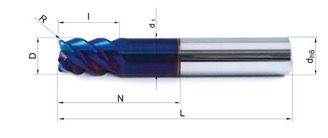
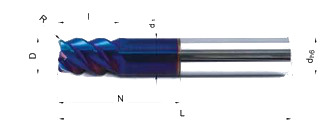
15012021screen kurzokay

diff --git a/lib/widgets/index_weehl_n.dart b/lib/widgets/index_weehl_n.dart
@@ -52,48 +52,74 @@ class _IndexWeehlNState extends State<IndexWeehlN> implements ChangeNotifier {
   final List<Widget> degrees = [
     ListTile(
       leading: Icon(Icons.rotate_90_degrees_ccw_outlined),
-      title: Text('0 Grad'),
+      title: Text(
+        '0 Grad',
+        textAlign: TextAlign.center,
+      ),
     ),
     ListTile(
       leading: Icon(Icons.rotate_90_degrees_ccw_outlined),
-      title: Text('0,5 Grad'),
+      title: Text(
+        '0,5 Grad',
+        textAlign: TextAlign.center,
+      ),
     ),
     ListTile(
       leading: Icon(Icons.rotate_90_degrees_ccw_outlined),
-      title: Text('1 Grad'),
+      title: Text(
+        '1 Grad',
+        textAlign: TextAlign.center,
+      ),
     ),
     ListTile(
       leading: Icon(Icons.rotate_90_degrees_ccw_outlined),
-      title: Text('1,5 Grad'),
+      title: Text(
+        '1,5 Grad',
+        textAlign: TextAlign.center,
+      ),
     ),
     ListTile(
       leading: Icon(Icons.rotate_90_degrees_ccw_outlined),
-      title: Text('2 Grad'),
+      title: Text(
+        '2 Grad',
+        textAlign: TextAlign.center,
+      ),
     ),
     ListTile(
       leading: Icon(Icons.rotate_90_degrees_ccw_outlined),
-      title: Text('2,5 Grad'),
+      title: Text(
+        '2,5 Grad',
+        textAlign: TextAlign.center,
+      ),
     ),
     ListTile(
       leading: Icon(Icons.rotate_90_degrees_ccw_outlined),
-      title: Text('3 Grad'),
+      title: Text(
+        '3 Grad',
+        textAlign: TextAlign.center,
+      ),
     )
   ];
 
   @override
   Widget build(BuildContext context) {
-    return Card(
-      child: RotationTransition(
-        turns: AlwaysStoppedAnimation(0 / 360),
-        child: ListWheelScrollView(
-          controller: FixedExtentScrollController(),
-          onSelectedItemChanged: (value) => positionChanged(value),
-          itemExtent: 40,
-          magnification: 1.0,
-          overAndUnderCenterOpacity: 0.1,
-          useMagnifier: true,
-          physics: FixedExtentScrollPhysics(),
-          children: degrees,
+    return Container(
+      width: 50,
+      child: Center(
+        child: RotationTransition(
+          turns: AlwaysStoppedAnimation(0 / 360),
+          child: ListWheelScrollView(
+            controller: FixedExtentScrollController(),
+            onSelectedItemChanged: (value) => positionChanged(value),
+            itemExtent: 40,
+            magnification: 1.0,
+            perspective: 0.00001,
+            squeeze: 1.5,
+            overAndUnderCenterOpacity: 0.1,
+            useMagnifier: true,
+            physics: FixedExtentScrollPhysics(),
+            children: degrees,
+          ),
         ),
       ),
     );

diff --git a/lib/screens/screen_kurz.dart b/lib/screens/screen_kurz.dart
@@ -44,7 +44,7 @@ class _ScreenKurzState extends State<ScreenKurz> implements ChangeNotifier {
           child: Center(
             child: Column(
               crossAxisAlignment: CrossAxisAlignment.center,
-              mainAxisAlignment: MainAxisAlignment.spaceAround,
+              mainAxisAlignment: MainAxisAlignment.spaceEvenly,
               children: [
                 SizedBox(
                   height: 80,
@@ -55,30 +55,17 @@ class _ScreenKurzState extends State<ScreenKurz> implements ChangeNotifier {
                   key: Key('SizeBoxImage'),
                   height: 250,
                   width: double.infinity,
-                  child: Card(
-                    margin: EdgeInsets.symmetric(horizontal: 30),
-                    elevation: 0,
-                    color: Colors.white,
-                    child: FlexImage(),
-                  ),
+                  child: FlexImage(),
                 ),
-                Column(
-                  mainAxisAlignment: MainAxisAlignment.start,
-                  children: <Widget>[
-                    SizedBox(
-                      height: 50,
-                      width: 300,
-                      child: ButtBar(),
-                    ),
-                    SizedBox(
-                      height: 250,
-                      width: 300,
-                      child: Card(
-                        elevation: 15,
-                        child: IndexWheel(),
-                      ),
-                    ),
-                  ],
+                SizedBox(
+                  height: 50,
+                  width: 300,
+                  child: ButtBar(),
+                ),
+                SizedBox(
+                  height: 250,
+                  width: 300,
+                  child: IndexWheel(),
                 ),
               ],
             ),

diff --git a/lib/widgets/index_wheel.dart b/lib/widgets/index_wheel.dart
@@ -88,7 +88,7 @@ class _IndexWheelState extends State<IndexWheel> implements ChangeNotifier {
                 onSelectedItemChanged: (value) =>
                     positionChanged(value, grad, geo),
                 itemExtent: 35,
-                magnification: 1.0,
+                magnification: 1.5,
                 overAndUnderCenterOpacity: 0.5,
                 useMagnifier: true,
                 physics: FixedExtentScrollPhysics(),
@@ -100,7 +100,7 @@ class _IndexWheelState extends State<IndexWheel> implements ChangeNotifier {
                       e.bez,
                       style: TextStyle(
                         fontSize: 14,
-                        color: Color(0xff0147fa),
+                        color: Colors.grey,
                       ),
                     ),
                   );

diff --git a/lib/widgets/elevated_buttons.dart b/lib/widgets/elevated_buttons.dart
@@ -46,6 +46,7 @@ class _ChoiseButtonsState extends State<ChoiseButtons> {
 
   @override
   Widget build(BuildContext context) {
+    print(widget.text);
     var _borderRadiusStyle;
     if (widget.text == 'rough') {
       _borderRadiusStyle =
@@ -55,9 +56,13 @@ class _ChoiseButtonsState extends State<ChoiseButtons> {
     }
     return ElevatedButton(
       style: ElevatedButton.styleFrom(
-          elevation: 10,
+          primary: Colors.white,
           shape: BeveledRectangleBorder(borderRadius: _borderRadiusStyle)),
-      child: Text(widget.text),
+      child: Text(
+        widget.text,
+        textAlign: TextAlign.center,
+        style: TextStyle(color: Colors.grey),
+      ),
       onPressed: () => {
         buttonPressed(widget.text),
         showDialog(

diff --git a/lib/main.dart b/lib/main.dart
@@ -36,12 +36,6 @@ void main() {
         theme: ThemeData(
           primaryColor: Colors.black,
           accentColor: Colors.white,
-          elevatedButtonTheme: ElevatedButtonThemeData(
-            style: ElevatedButton.styleFrom(
-                primary: Colors.transparent,
-                padding: EdgeInsets.all(25),
-                elevation: 10),
-          ),
         ),
         initialRoute: '/',
         getPages: [

diff --git a/lib/widgets/flex_image.dart b/lib/widgets/flex_image.dart
@@ -26,7 +26,7 @@ class _FlexImageState extends State<FlexImage> {
                 height: 200,
                 width: 300,
                 child: Image.asset(
-                  'assets/images/leg.jpg',
+                  'assets/images/leg.png',
                 ),
               ),
             ),
